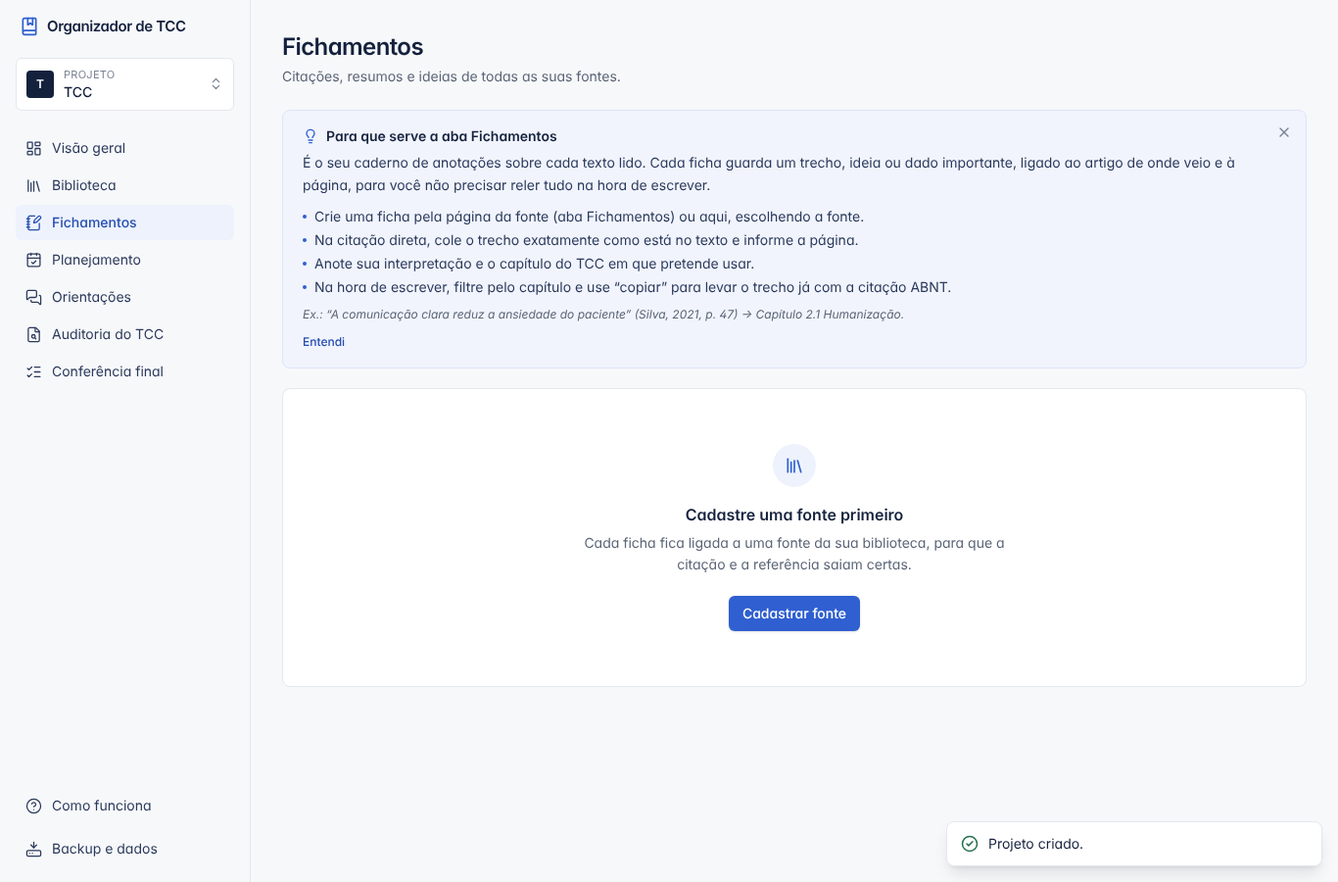
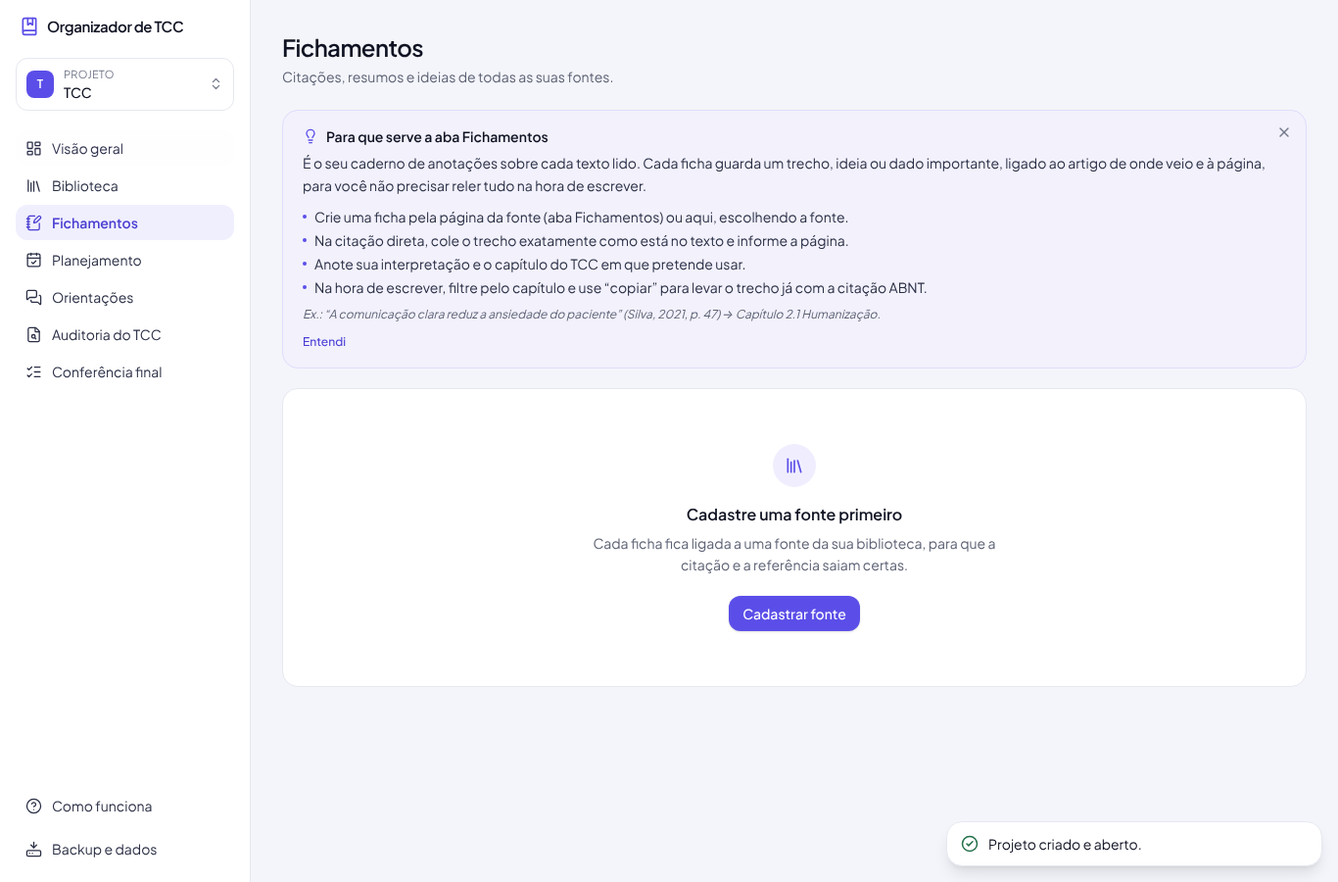
Página de apresentação no endereço principal e plataforma em /app/
Claude-Session: https://claude.ai/code/session_013FtsBC47vzV2b4bpiRwoNh

diff --git a/index.html b/index.html
@@ -1,15 +1,271 @@
 <!doctype html>
 <html lang="pt-BR">
-  <head>
-    <meta charset="UTF-8" />
-    <link rel="icon" type="image/svg+xml" href="./favicon.svg" />
-    <meta name="viewport" content="width=device-width, initial-scale=1.0" />
-    <meta name="description" content="Organize fontes, fichamentos, referências ABNT e o planejamento do seu TCC. Seus dados ficam só no seu navegador." />
-    <meta name="theme-color" content="#f7f8fa" />
-    <title>Organizador de TCC</title>
-  </head>
-  <body>
-    <div id="root"></div>
-    <script type="module" src="/src/main.tsx"></script>
-  </body>
+<head>
+<meta charset="UTF-8" />
+<meta name="viewport" content="width=device-width, initial-scale=1.0" />
+<link rel="icon" type="image/svg+xml" href="./favicon.svg" />
+<meta name="description" content="Organizador de TCC: fontes, fichamentos, referências ABNT, prazos, orientações e auditoria de citações num só lugar. Gratuito, sem cadastro e com os dados só no seu navegador." />
+<meta name="theme-color" content="#0b0e1c" />
+<title>Organizador de TCC</title>
+<script>
+  // Endereços antigos do app (com #/...) continuam funcionando: vão para a plataforma.
+  if (location.hash.startsWith('#/')) location.replace('./app/' + location.hash);
+</script>
+<script type="module" src="/src/apresentacao.ts"></script>
+<style>
+  body { margin: 0; background: #f4f5fa; }
+  a { color: #5b4ee8; } a:hover { color: #4a3dd6; }
+  html { scroll-behavior: smooth; }
+</style>
+</head>
+<body>
+<div style="font-family: 'Plus Jakarta Sans', system-ui, sans-serif; color: #0f1222; background: #f4f5fa; line-height: 1.55; overflow-x: hidden">
+
+<!-- Topo -->
+<header style="background: #0b0e1c">
+<nav style="max-width: 1180px; margin: 0 auto; padding: 20px 24px; display: flex; flex-wrap: wrap; align-items: center; justify-content: space-between; gap: 12px">
+<a href="#inicio" style="display: flex; align-items: center; gap: 10px; color: #ffffff; text-decoration: none; font-weight: 700; font-size: 17px">
+<svg width="26" height="26" viewBox="0 0 24 24" fill="none" stroke="#8b80ff" stroke-width="2" stroke-linecap="round" stroke-linejoin="round" aria-hidden="true"><path d="M4 19.5v-15A2.5 2.5 0 0 1 6.5 2H19a1 1 0 0 1 1 1v18a1 1 0 0 1-1 1H6.5a1 1 0 0 1 0-5H20"></path><path d="M9 7h6"></path><path d="M9 11h4"></path></svg>
+Organizador de TCC
+</a>
+<div style="display: flex; flex-wrap: wrap; align-items: center; gap: 8px">
+<a href="#recursos" style="color: #aab0cc; text-decoration: none; font-size: 15px; padding: 12px 14px">Recursos</a>
+<a href="#privacidade" style="color: #aab0cc; text-decoration: none; font-size: 15px; padding: 12px 14px">Privacidade</a>
+<a href="#perguntas" style="color: #aab0cc; text-decoration: none; font-size: 15px; padding: 12px 14px">Perguntas</a>
+<a href="./app/" style="background: #ffffff; color: #0f1222; text-decoration: none; font-weight: 600; font-size: 15px; padding: 11px 18px; border-radius: 999px">Abrir o app</a>
+</div>
+</nav>
+
+<!-- Hero -->
+<section id="inicio" style="max-width: 1180px; margin: 0 auto; padding: 56px 24px 0; display: flex; flex-direction: column; align-items: center; text-align: center">
+<p style="margin: 0 0 18px; display: inline-flex; align-items: center; gap: 8px; background: rgba(139,128,255,0.16); color: #aab0cc; font-size: 14px; font-weight: 600; padding: 7px 14px; border-radius: 999px">Gestão do trabalho de conclusão de curso</p>
+<h1 style="margin: 0; max-width: 880px; font-weight: 800; letter-spacing: -0.03em; font-size: clamp(40px, 6.2vw, 76px); line-height: 1.02; letter-spacing: -0.04em; color: #ffffff">Seu TCC organizado,<br><span style="color: #8b80ff">do primeiro artigo à entrega.</span></h1>
+<p style="margin: 22px 0 0; max-width: 640px; font-size: clamp(17px, 2vw, 20px); color: #aab0cc">Fontes, fichamentos, referências ABNT, prazos e orientações num só lugar. E, antes de entregar, uma auditoria que confere suas citações por você. Gratuito, sem cadastro e sem servidor.</p>
+<div style="margin-top: 32px; display: flex; flex-wrap: wrap; justify-content: center; gap: 12px">
+<a href="./app/" style="background: #5b4ee8; color: #ffffff; text-decoration: none; font-weight: 700; font-size: 17px; padding: 15px 26px; border-radius: 999px">Começar meu TCC agora</a>
+<a href="#recursos" style="border: 1px solid rgba(170,176,204,0.4); color: #ffffff; text-decoration: none; font-weight: 600; font-size: 17px; padding: 14px 24px; border-radius: 999px">Ver o que ele faz</a>
+</div>
+<div style="margin-top: 56px; width: 100%; max-width: 1080px; border-radius: 20px 14px 0 0; overflow: hidden; background: #ffffff; box-shadow: 0 0 120px rgba(91,78,232,0.35); border: 1px solid rgba(255,255,255,0.12); border-bottom: 0">
+<div style="height: 34px; background: #eef0f4; display: flex; align-items: center; gap: 7px; padding: 0 14px" aria-hidden="true">
+<span style="width: 11px; height: 11px; border-radius: 50%; background: #cfd4dc"></span><span style="width: 11px; height: 11px; border-radius: 50%; background: #cfd4dc"></span><span style="width: 11px; height: 11px; border-radius: 50%; background: #cfd4dc"></span>
+</div>
+<img src="./apresentacao/visao.jpg" alt="Tela Visão geral: total de fontes, fichamentos, tarefas em andamento, prazo de entrega e listas de fontes e fichamentos recentes" style="display: block; width: 100%; height: auto">
+</div>
+</section>
+</header>
+
+<!-- Dor -->
+<section style="max-width: 1180px; margin: 0 auto; padding: 96px 24px 24px">
+<h2 style="margin: 0; text-align: center; font-weight: 800; letter-spacing: -0.03em; font-size: clamp(30px, 4vw, 44px); line-height: 1.15">Conhece essa cena?</h2>
+<div style="margin-top: 40px; display: grid; grid-template-columns: repeat(auto-fit, minmax(260px, 1fr)); gap: 20px">
+<div style="background: #ffffff; border: 1px solid #e6e8f0; border-radius: 20px; padding: 26px">
+<p style="margin: 0; font-size: 18px; font-weight: 700">Artigos espalhados</p>
+<p style="margin: 8px 0 0; color: #5d6275">PDFs na pasta de downloads, links em vinte abas e aquele texto ótimo que você não lembra onde salvou.</p>
+</div>
+<div style="background: #ffffff; border: 1px solid #e6e8f0; border-radius: 20px; padding: 26px">
+<p style="margin: 0; font-size: 18px; font-weight: 700">Citação sem página</p>
+<p style="margin: 8px 0 0; color: #5d6275">Você copiou o trecho perfeito, mas agora não sabe de qual autor era nem em que página estava.</p>
+</div>
+<div style="background: #ffffff; border: 1px solid #e6e8f0; border-radius: 20px; padding: 26px">
+<p style="margin: 0; font-size: 18px; font-weight: 700">Véspera da entrega</p>
+<p style="margin: 8px 0 0; color: #5d6275">Madrugada conferindo referência por referência, procurando se todo autor citado está na lista.</p>
+</div>
+</div>
+<p style="margin: 36px auto 0; max-width: 640px; text-align: center; font-size: 19px; font-weight: 600">O Organizador de TCC junta tudo isso num lugar só, e organiza o caminho para você.</p>
+</section>
+
+<!-- Recursos -->
+<section id="recursos" style="max-width: 1180px; margin: 0 auto; padding: 72px 24px; display: flex; flex-direction: column; gap: 96px">
+
+<div style="display: flex; flex-wrap: wrap; align-items: center; gap: 48px">
+<div style="flex: 1 1 360px; min-width: 0">
+<p style="margin: 0; color: #5b4ee8; font-weight: 700; font-size: 14px; letter-spacing: 0.06em; text-transform: uppercase">Biblioteca e ABNT</p>
+<h3 style="margin: 10px 0 0; font-weight: 800; letter-spacing: -0.03em; font-size: clamp(28px, 3.4vw, 40px); line-height: 1.15">Cole o DOI, o link ou o PDF. A referência sai pronta.</h3>
+<p style="margin: 16px 0 0; color: #5d6275; font-size: 17px">O app busca os dados do artigo em bases acadêmicas abertas e monta a referência e a citação no padrão ABNT.</p>
+<ul style="margin: 20px 0 0; padding: 0; list-style: none; display: flex; flex-direction: column; gap: 12px; font-size: 16px">
+<li style="display: flex; gap: 10px"><svg width="20" height="20" viewBox="0 0 24 24" fill="none" stroke="#5b4ee8" stroke-width="2.4" stroke-linecap="round" stroke-linejoin="round" aria-hidden="true" style="flex: none; margin-top: 2px"><path d="M20 6 9 17l-5-5"></path></svg>Referência pela NBR 6023 e citação pela NBR 10520, prontas para copiar</li>
+<li style="display: flex; gap: 10px"><svg width="20" height="20" viewBox="0 0 24 24" fill="none" stroke="#5b4ee8" stroke-width="2.4" stroke-linecap="round" stroke-linejoin="round" aria-hidden="true" style="flex: none; margin-top: 2px"><path d="M20 6 9 17l-5-5"></path></svg>Palavras-chave e temas sugeridos em português</li>
+<li style="display: flex; gap: 10px"><svg width="20" height="20" viewBox="0 0 24 24" fill="none" stroke="#5b4ee8" stroke-width="2.4" stroke-linecap="round" stroke-linejoin="round" aria-hidden="true" style="flex: none; margin-top: 2px"><path d="M20 6 9 17l-5-5"></path></svg>Mostra o que falta conferir e nunca inventa um dado</li>
+</ul>
+</div>
+<div style="flex: 1 1 520px; min-width: 0; border-radius: 20px; overflow: hidden; border: 1px solid #e6e8f0; box-shadow: 0 20px 50px rgba(15,18,34,0.12)">
+<img loading="lazy" src="./apresentacao/referencia.jpg" alt="Página de uma fonte com a referência ABNT pronta para copiar e a lista do que conferir" style="display: block; width: 100%; height: auto">
+</div>
+</div>
+
+<div style="display: flex; flex-wrap: wrap-reverse; align-items: center; gap: 48px">
+<div style="flex: 1 1 520px; min-width: 0; border-radius: 20px; overflow: hidden; border: 1px solid #e6e8f0; box-shadow: 0 20px 50px rgba(15,18,34,0.12)">
+<img loading="lazy" src="./apresentacao/fichamentos.jpg" alt="Tela de fichamentos com citação direta, página, interpretação e capítulo do TCC" style="display: block; width: 100%; height: auto">
+</div>
+<div style="flex: 1 1 360px; min-width: 0">
+<p style="margin: 0; color: #5b4ee8; font-weight: 700; font-size: 14px; letter-spacing: 0.06em; text-transform: uppercase">Fichamentos</p>
+<h3 style="margin: 10px 0 0; font-weight: 800; letter-spacing: -0.03em; font-size: clamp(28px, 3.4vw, 40px); line-height: 1.15">Leia uma vez. Use na hora de escrever.</h3>
+<p style="margin: 16px 0 0; color: #5d6275; font-size: 17px">Guarde citações, paráfrases, ideias e dados de cada leitura, já ligados à fonte, à página e ao capítulo onde vão entrar.</p>
+<ul style="margin: 20px 0 0; padding: 0; list-style: none; display: flex; flex-direction: column; gap: 12px; font-size: 16px">
+<li style="display: flex; gap: 10px"><svg width="20" height="20" viewBox="0 0 24 24" fill="none" stroke="#5b4ee8" stroke-width="2.4" stroke-linecap="round" stroke-linejoin="round" aria-hidden="true" style="flex: none; margin-top: 2px"><path d="M20 6 9 17l-5-5"></path></svg>O trecho original fica sempre guardado, igualzinho ao do autor</li>
+<li style="display: flex; gap: 10px"><svg width="20" height="20" viewBox="0 0 24 24" fill="none" stroke="#5b4ee8" stroke-width="2.4" stroke-linecap="round" stroke-linejoin="round" aria-hidden="true" style="flex: none; margin-top: 2px"><path d="M20 6 9 17l-5-5"></path></svg>Filtre por capítulo e encontre tudo o que vai usar em cada parte</li>
+<li style="display: flex; gap: 10px"><svg width="20" height="20" viewBox="0 0 24 24" fill="none" stroke="#5b4ee8" stroke-width="2.4" stroke-linecap="round" stroke-linejoin="round" aria-hidden="true" style="flex: none; margin-top: 2px"><path d="M20 6 9 17l-5-5"></path></svg>Copie o trecho já com a citação, no formato (Silva; Souza, 2021, p. 47)</li>
+</ul>
+</div>
+</div>
+
+<div style="display: flex; flex-wrap: wrap; align-items: center; gap: 48px">
+<div style="flex: 1 1 360px; min-width: 0">
+<p style="margin: 0; color: #5b4ee8; font-weight: 700; font-size: 14px; letter-spacing: 0.06em; text-transform: uppercase">Planejamento e orientações</p>
+<h3 style="margin: 10px 0 0; font-weight: 800; letter-spacing: -0.03em; font-size: clamp(28px, 3.4vw, 40px); line-height: 1.15">Prazos que você enxerga antes de virarem susto.</h3>
+<p style="margin: 16px 0 0; color: #5d6275; font-size: 17px">Divida o TCC em etapas e tarefas, veja o cronograma e acompanhe o progresso calculado pelo que você realmente concluiu.</p>
+<ul style="margin: 20px 0 0; padding: 0; list-style: none; display: flex; flex-direction: column; gap: 12px; font-size: 16px">
+<li style="display: flex; gap: 10px"><svg width="20" height="20" viewBox="0 0 24 24" fill="none" stroke="#5b4ee8" stroke-width="2.4" stroke-linecap="round" stroke-linejoin="round" aria-hidden="true" style="flex: none; margin-top: 2px"><path d="M20 6 9 17l-5-5"></path></svg>Tarefas atrasadas e prazos da semana sempre à vista</li>
+<li style="display: flex; gap: 10px"><svg width="20" height="20" viewBox="0 0 24 24" fill="none" stroke="#5b4ee8" stroke-width="2.4" stroke-linecap="round" stroke-linejoin="round" aria-hidden="true" style="flex: none; margin-top: 2px"><path d="M20 6 9 17l-5-5"></path></svg>Registre o que o orientador pediu e transforme em tarefa</li>
+<li style="display: flex; gap: 10px"><svg width="20" height="20" viewBox="0 0 24 24" fill="none" stroke="#5b4ee8" stroke-width="2.4" stroke-linecap="round" stroke-linejoin="round" aria-hidden="true" style="flex: none; margin-top: 2px"><path d="M20 6 9 17l-5-5"></path></svg>Um planejamento sugerido para começar do zero</li>
+</ul>
+</div>
+<div style="flex: 1 1 520px; min-width: 0; border-radius: 20px; overflow: hidden; border: 1px solid #e6e8f0; box-shadow: 0 20px 50px rgba(15,18,34,0.12)">
+<img loading="lazy" src="./apresentacao/planejamento.jpg" alt="Tela de planejamento com progresso geral, tarefas atrasadas, próximos prazos e lista de tarefas" style="display: block; width: 100%; height: auto">
+</div>
+</div>
+</section>
+
+<!-- Auditoria: destaque -->
+<section style="background: #f0eefe; border-top: 1px solid #e0dcfc; border-bottom: 1px solid #e0dcfc">
+<div style="max-width: 1180px; margin: 0 auto; padding: 88px 24px; display: flex; flex-direction: column; align-items: center">
+<p style="margin: 0; background: #0f1222; color: #ffffff; font-weight: 700; font-size: 13px; letter-spacing: 0.06em; text-transform: uppercase; padding: 6px 12px; border-radius: 999px">O diferencial</p>
+<h2 style="margin: 18px 0 0; max-width: 820px; text-align: center; font-weight: 800; letter-spacing: -0.03em; font-size: clamp(32px, 4.4vw, 52px); line-height: 1.1">Antes de entregar, uma revisão que ninguém faz à mão.</h2>
+<p style="margin: 18px 0 0; max-width: 680px; text-align: center; color: #2a2f45; font-size: 18px">Envie o arquivo do seu TCC em Word ou PDF. A Auditoria lê o texto e aponta o que vale conferir, comparando com as fontes e os fichamentos que você cadastrou.</p>
+<div style="margin-top: 44px; width: 100%; display: grid; grid-template-columns: repeat(auto-fit, minmax(240px, 1fr)); gap: 16px">
+<div style="background: #ffffff; border-radius: 20px; padding: 22px">
+<p style="margin: 0; font-weight: 700; font-size: 17px">Citação sem referência</p>
+<p style="margin: 6px 0 0; color: #5d6275; font-size: 15px">Autor citado no texto que não aparece na lista, ou com o ano diferente.</p>
+</div>
+<div style="background: #ffffff; border-radius: 20px; padding: 22px">
+<p style="margin: 0; font-weight: 700; font-size: 17px">Referência esquecida</p>
+<p style="margin: 6px 0 0; color: #5d6275; font-size: 15px">Obra que está nas referências, mas nunca foi citada no trabalho.</p>
+</div>
+<div style="background: #ffffff; border-radius: 20px; padding: 22px">
+<p style="margin: 0; font-weight: 700; font-size: 17px">Citação direta diferente</p>
+<p style="margin: 6px 0 0; color: #5d6275; font-size: 15px">Palavra trocada em relação ao original, página faltando ou diferente do fichamento.</p>
+</div>
+<div style="background: #ffffff; border-radius: 20px; padding: 22px">
+<p style="margin: 0; font-weight: 700; font-size: 17px">Trecho copiado sem aspas</p>
+<p style="margin: 6px 0 0; color: #5d6275; font-size: 15px">Frases iguais ou muito próximas das suas fontes, para você reescrever ou citar.</p>
+</div>
+</div>
+<div style="margin-top: 44px; width: 100%; max-width: 1000px; border-radius: 20px; overflow: hidden; border: 1px solid #e0dcfc; box-shadow: 0 24px 60px rgba(15,18,34,0.16)">
+<img loading="lazy" src="./apresentacao/auditoria.jpg" alt="Resultado da auditoria mostrando uma citação direta com a palavra trocada: laterolateral no TCC, anteroposterior na fonte" style="display: block; width: 100%; height: auto">
+</div>
+<p style="margin: 20px 0 0; max-width: 680px; text-align: center; color: #5d6275; font-size: 14px">A auditoria mostra pontos para você conferir, não um veredito. Ela compara só com as fontes que você cadastrou e não substitui o detector de plágio da sua instituição.</p>
+</div>
+</section>
+
+<!-- Mais recursos -->
+<section style="max-width: 1180px; margin: 0 auto; padding: 88px 24px 24px">
+<h2 style="margin: 0; text-align: center; font-weight: 800; letter-spacing: -0.03em; font-size: clamp(30px, 4vw, 44px); line-height: 1.15">E mais um pouco</h2>
+<div style="margin-top: 40px; display: grid; grid-template-columns: repeat(auto-fit, minmax(250px, 1fr)); gap: 20px">
+<div style="padding: 4px">
+<svg width="28" height="28" viewBox="0 0 24 24" fill="none" stroke="#5b4ee8" stroke-width="2" stroke-linecap="round" stroke-linejoin="round" aria-hidden="true"><rect x="3" y="3" width="7" height="9" rx="1"></rect><rect x="14" y="3" width="7" height="5" rx="1"></rect><rect x="14" y="12" width="7" height="9" rx="1"></rect><rect x="3" y="16" width="7" height="5" rx="1"></rect></svg>
+<p style="margin: 12px 0 0; font-weight: 700; font-size: 17px">Visão geral do TCC</p>
+<p style="margin: 6px 0 0; color: #5d6275">Quantas fontes, fichas e tarefas, quanto falta para a entrega e o que você fez por último.</p>
+</div>
+<div style="padding: 4px">
+<svg width="28" height="28" viewBox="0 0 24 24" fill="none" stroke="#5b4ee8" stroke-width="2" stroke-linecap="round" stroke-linejoin="round" aria-hidden="true"><path d="m3 17 2 2 4-4"></path><path d="m3 7 2 2 4-4"></path><path d="M13 6h8"></path><path d="M13 12h8"></path><path d="M13 18h8"></path></svg>
+<p style="margin: 12px 0 0; font-weight: 700; font-size: 17px">Conferência final</p>
+<p style="margin: 6px 0 0; color: #5d6275">Um checklist editável para a entrega, adaptado às regras da sua faculdade.</p>
+</div>
+<div style="padding: 4px">
+<svg width="28" height="28" viewBox="0 0 24 24" fill="none" stroke="#5b4ee8" stroke-width="2" stroke-linecap="round" stroke-linejoin="round" aria-hidden="true"><circle cx="12" cy="12" r="10"></circle><path d="M9.1 9a3 3 0 0 1 5.8 1c0 2-3 3-3 3"></path><path d="M12 17h.01"></path></svg>
+<p style="margin: 12px 0 0; font-weight: 700; font-size: 17px">Explicação em cada tela</p>
+<p style="margin: 6px 0 0; color: #5d6275">Cada seção mostra para que serve e como usar, em linguagem simples.</p>
+</div>
+<div style="padding: 4px">
+<svg width="28" height="28" viewBox="0 0 24 24" fill="none" stroke="#5b4ee8" stroke-width="2" stroke-linecap="round" stroke-linejoin="round" aria-hidden="true"><path d="M17.5 19H9a7 7 0 1 1 6.71-9h1.79a4.5 4.5 0 1 1 0 9Z"></path></svg>
+<p style="margin: 12px 0 0; font-weight: 700; font-size: 17px">Backup automático</p>
+<p style="margin: 6px 0 0; color: #5d6275">No Chrome ou no Edge, o app salva uma cópia sozinho numa pasta do Google Drive.</p>
+</div>
+</div>
+</section>
+
+<!-- Privacidade -->
+<section id="privacidade" style="max-width: 1180px; margin: 0 auto; padding: 72px 24px">
+<div style="background: #0f1222; color: #ffffff; border-radius: 20px; padding: clamp(32px, 5vw, 56px); display: flex; flex-wrap: wrap; gap: 40px; align-items: center">
+<div style="flex: 1 1 380px; min-width: 0">
+<svg width="40" height="40" viewBox="0 0 24 24" fill="none" stroke="#8b80ff" stroke-width="1.8" stroke-linecap="round" stroke-linejoin="round" aria-hidden="true"><path d="M20 13c0 5-3.5 7.5-7.66 8.95a1 1 0 0 1-.67-.01C7.5 20.5 4 18 4 13V6a1 1 0 0 1 1-1c2 0 4.5-1.2 6.24-2.72a1.17 1.17 0 0 1 1.52 0C14.51 3.81 17 5 19 5a1 1 0 0 1 1 1z"></path><path d="m9 12 2 2 4-4"></path></svg>
+<h2 style="margin: 16px 0 0; font-weight: 800; letter-spacing: -0.03em; font-size: clamp(30px, 4vw, 44px); line-height: 1.1">Seus dados são só seus.</h2>
+<p style="margin: 14px 0 0; color: #aab0cc; font-size: 18px">Não existe servidor guardando o seu TCC. Tudo fica no navegador do seu computador, e nem quem criou o app tem acesso.</p>
+</div>
+<ul style="flex: 1 1 340px; min-width: 0; margin: 0; padding: 0; list-style: none; display: flex; flex-direction: column; gap: 16px; font-size: 16px; color: #e3e6f3">
+<li style="display: flex; gap: 12px"><svg width="20" height="20" viewBox="0 0 24 24" fill="none" stroke="#8b80ff" stroke-width="2.4" stroke-linecap="round" stroke-linejoin="round" aria-hidden="true" style="flex: none; margin-top: 3px"><path d="M20 6 9 17l-5-5"></path></svg>Sem conta, sem senha, sem e-mail</li>
+<li style="display: flex; gap: 12px"><svg width="20" height="20" viewBox="0 0 24 24" fill="none" stroke="#8b80ff" stroke-width="2.4" stroke-linecap="round" stroke-linejoin="round" aria-hidden="true" style="flex: none; margin-top: 3px"><path d="M20 6 9 17l-5-5"></path></svg>O arquivo do TCC é lido na hora e não é guardado</li>
+<li style="display: flex; gap: 12px"><svg width="20" height="20" viewBox="0 0 24 24" fill="none" stroke="#8b80ff" stroke-width="2.4" stroke-linecap="round" stroke-linejoin="round" aria-hidden="true" style="flex: none; margin-top: 3px"><path d="M20 6 9 17l-5-5"></path></svg>Backup em arquivo para levar a outro computador</li>
+<li style="display: flex; gap: 12px"><svg width="20" height="20" viewBox="0 0 24 24" fill="none" stroke="#8b80ff" stroke-width="2.4" stroke-linecap="round" stroke-linejoin="round" aria-hidden="true" style="flex: none; margin-top: 3px"><path d="M20 6 9 17l-5-5"></path></svg>Gratuito, sem anúncios</li>
+</ul>
+</div>
+</section>
+
+<!-- Como começar -->
+<section style="max-width: 1180px; margin: 0 auto; padding: 24px 24px 72px">
+<h2 style="margin: 0; text-align: center; font-weight: 800; letter-spacing: -0.03em; font-size: clamp(30px, 4vw, 44px); line-height: 1.15">Comece em dois minutos</h2>
+<ol style="margin: 40px 0 0; padding: 0; list-style: none; display: grid; grid-template-columns: repeat(auto-fit, minmax(240px, 1fr)); gap: 20px">
+<li style="background: #ffffff; border: 1px solid #e6e8f0; border-radius: 20px; padding: 26px">
+<span style="display: inline-flex; width: 36px; height: 36px; align-items: center; justify-content: center; border-radius: 50%; background: #f0eefe; color: #4a3dd6; font-weight: 700">1</span>
+<p style="margin: 14px 0 0; font-weight: 700; font-size: 17px">Abra o app</p>
+<p style="margin: 6px 0 0; color: #5d6275">No navegador do computador ou do celular. Não precisa instalar nada.</p>
+</li>
+<li style="background: #ffffff; border: 1px solid #e6e8f0; border-radius: 20px; padding: 26px">
+<span style="display: inline-flex; width: 36px; height: 36px; align-items: center; justify-content: center; border-radius: 50%; background: #f0eefe; color: #4a3dd6; font-weight: 700">2</span>
+<p style="margin: 14px 0 0; font-weight: 700; font-size: 17px">Crie o projeto do TCC</p>
+<p style="margin: 6px 0 0; color: #5d6275">Coloque o tema e a data de entrega. O app sugere um planejamento.</p>
+</li>
+<li style="background: #ffffff; border: 1px solid #e6e8f0; border-radius: 20px; padding: 26px">
+<span style="display: inline-flex; width: 36px; height: 36px; align-items: center; justify-content: center; border-radius: 50%; background: #f0eefe; color: #4a3dd6; font-weight: 700">3</span>
+<p style="margin: 14px 0 0; font-weight: 700; font-size: 17px">Cadastre a primeira fonte</p>
+<p style="margin: 6px 0 0; color: #5d6275">Cole o DOI de um artigo e veja a referência ABNT aparecer.</p>
+</li>
+</ol>
+</section>
+
+<!-- Perguntas -->
+<section id="perguntas" style="max-width: 820px; margin: 0 auto; padding: 24px 24px 88px">
+<h2 style="margin: 0; text-align: center; font-weight: 800; letter-spacing: -0.03em; font-size: clamp(30px, 4vw, 44px); line-height: 1.15">Perguntas frequentes</h2>
+<div style="margin-top: 36px; display: flex; flex-direction: column; gap: 12px">
+<details style="background: #ffffff; border: 1px solid #e6e8f0; border-radius: 20px; padding: 18px 22px">
+<summary style="cursor: pointer; font-weight: 700; font-size: 17px">É pago?</summary>
+<p style="margin: 10px 0 0; color: #5d6275">Não. O app é gratuito e não tem plano pago nem anúncios.</p>
+</details>
+<details style="background: #ffffff; border: 1px solid #e6e8f0; border-radius: 20px; padding: 18px 22px">
+<summary style="cursor: pointer; font-weight: 700; font-size: 17px">Preciso criar uma conta?</summary>
+<p style="margin: 10px 0 0; color: #5d6275">Não. É só abrir o endereço e criar o seu projeto.</p>
+</details>
+<details style="background: #ffffff; border: 1px solid #e6e8f0; border-radius: 20px; padding: 18px 22px">
+<summary style="cursor: pointer; font-weight: 700; font-size: 17px">Onde ficam os meus dados?</summary>
+<p style="margin: 10px 0 0; color: #5d6275">No navegador do seu computador. Por isso, faça backup: o app avisa quando estiver na hora e pode salvar uma cópia automática no Google Drive.</p>
+</details>
+<details style="background: #ffffff; border: 1px solid #e6e8f0; border-radius: 20px; padding: 18px 22px">
+<summary style="cursor: pointer; font-weight: 700; font-size: 17px">Consigo usar em outro computador?</summary>
+<p style="margin: 10px 0 0; color: #5d6275">Sim. Baixe o backup num computador e use “Restaurar backup” no outro.</p>
+</details>
+<details style="background: #ffffff; border: 1px solid #e6e8f0; border-radius: 20px; padding: 18px 22px">
+<summary style="cursor: pointer; font-weight: 700; font-size: 17px">A auditoria substitui o detector de plágio da faculdade?</summary>
+<p style="margin: 10px 0 0; color: #5d6275">Não. Ela compara o seu texto só com as fontes que você cadastrou, não com a internet. Serve para revisar citações e evitar cópias sem querer antes da entrega.</p>
+</details>
+<details style="background: #ffffff; border: 1px solid #e6e8f0; border-radius: 20px; padding: 18px 22px">
+<summary style="cursor: pointer; font-weight: 700; font-size: 17px">Serve para qualquer curso?</summary>
+<p style="margin: 10px 0 0; color: #5d6275">Sim. Serve para TCC, monografia, artigo ou qualquer trabalho acadêmico que siga as normas da ABNT.</p>
+</details>
+</div>
+</section>
+
+<!-- Chamada final -->
+<section style="background: #0b0e1c">
+<div style="max-width: 1180px; margin: 0 auto; padding: 80px 24px; display: flex; flex-direction: column; align-items: center; text-align: center">
+<h2 style="margin: 0; max-width: 760px; font-weight: 800; letter-spacing: -0.03em; font-size: clamp(32px, 4.4vw, 52px); line-height: 1.1; color: #ffffff">Menos caos, mais TCC.</h2>
+<p style="margin: 16px 0 0; max-width: 560px; color: #aab0cc; font-size: 18px">Organize suas leituras hoje e chegue na entrega com tudo conferido.</p>
+<a href="./app/" style="margin-top: 30px; background: #5b4ee8; color: #ffffff; text-decoration: none; font-weight: 700; font-size: 17px; padding: 15px 28px; border-radius: 999px">Começar meu TCC agora</a>
+</div>
+<footer style="border-top: 1px solid rgba(170,176,204,0.15)">
+<p style="max-width: 1180px; margin: 0 auto; padding: 22px 24px; color: #8a90aa; font-size: 14px; text-align: center">Organizador de TCC · criado por Vitória · gratuito e sem coleta de dados</p>
+</footer>
+</section>
+
+</div>
+</body>
 </html>

diff --git a/vite.config.ts b/vite.config.ts
@@ -2,11 +2,21 @@
 import react from '@vitejs/plugin-react'
 import tailwindcss from '@tailwindcss/vite'
 import { defineConfig } from 'vite'
+import { resolve } from 'node:path'
 
 export default defineConfig({
   plugins: [react(), tailwindcss()],
   // Caminho relativo: permite publicar o site em qualquer endereço (ex.: GitHub Pages)
   base: './',
+  // Duas páginas: a apresentação (endereço principal) e a plataforma (em /app/)
+  build: {
+    rollupOptions: {
+      input: {
+        apresentacao: resolve(import.meta.dirname, 'index.html'),
+        app: resolve(import.meta.dirname, 'app/index.html'),
+      },
+    },
+  },
   test: {
     environment: 'jsdom',
     setupFiles: ['./src/test/setup.ts'],

diff --git a/app/index.html b/app/index.html
@@ -1,0 +1,15 @@
+<!doctype html>
+<html lang="pt-BR">
+  <head>
+    <meta charset="UTF-8" />
+    <link rel="icon" type="image/svg+xml" href="../favicon.svg" />
+    <meta name="viewport" content="width=device-width, initial-scale=1.0" />
+    <meta name="description" content="Organize fontes, fichamentos, referências ABNT e o planejamento do seu TCC. Seus dados ficam só no seu navegador." />
+    <meta name="theme-color" content="#f4f5fa" />
+    <title>Organizador de TCC</title>
+  </head>
+  <body>
+    <div id="root"></div>
+    <script type="module" src="/src/main.tsx"></script>
+  </body>
+</html>

diff --git a/src/apresentacao.ts b/src/apresentacao.ts
@@ -1,0 +1,6 @@
+// Página de apresentação: só carrega a fonte (servida pelo próprio site, sem Google Fonts).
+import '@fontsource/plus-jakarta-sans/latin-400.css';
+import '@fontsource/plus-jakarta-sans/latin-500.css';
+import '@fontsource/plus-jakarta-sans/latin-600.css';
+import '@fontsource/plus-jakarta-sans/latin-700.css';
+import '@fontsource/plus-jakarta-sans/latin-800.css';

diff --git a/README.md b/README.md
@@ -3,7 +3,11 @@
 Aplicação web para organizar a pesquisa bibliográfica e o desenvolvimento do TCC:
 biblioteca de fontes com referências ABNT, fichamentos, planejamento, orientações e conferência final.
 
-**Endereço:** https://vivmartins.github.io/tcc-organizador/
+**Endereços:**
+- Página de apresentação: https://vivmartins.github.io/tcc-organizador/
+- Plataforma (direto): https://vivmartins.github.io/tcc-organizador/app/
+
+Endereços antigos da plataforma (com `#/…`) são levados automaticamente para `/app/`.
 
 ## Como os dados são guardados
 
@@ -57,7 +61,7 @@ Requer [Node.js](https://nodejs.org) 20 ou mais recente.
 
 ```bash
 npm install        # instala as bibliotecas (uma vez)
-npm run dev        # abre em http://localhost:5173 e atualiza ao salvar o código
+npm run dev        # apresentação em http://localhost:5173 e plataforma em http://localhost:5173/app/
 ```
 
 ## Testar
@@ -97,6 +101,8 @@ src/
   integrations/  serviços externos: Crossref/OpenAlex, leitura de PDF (pdf.js), tradução,
                  leitura do arquivo do TCC (.docx e PDF)
   ui/            telas e componentes (React + Tailwind), textos de ajuda em ui/ajuda/textos.ts
+index.html       página de apresentação (HTML estático; imagens em public/apresentacao/)
+app/index.html   entrada da plataforma
 supabase/        modelo de dados para uma possível sincronização em nuvem (não usado)
 ```
 
